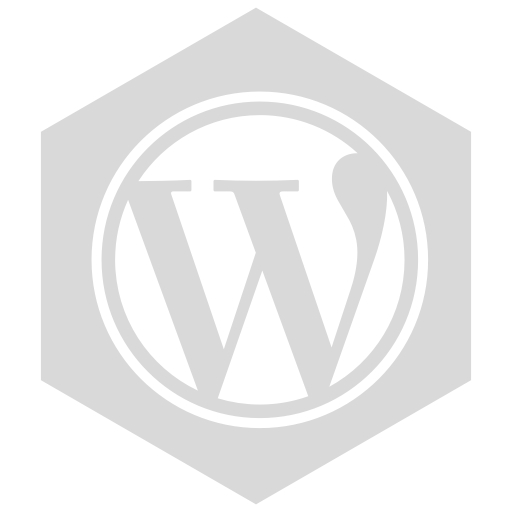
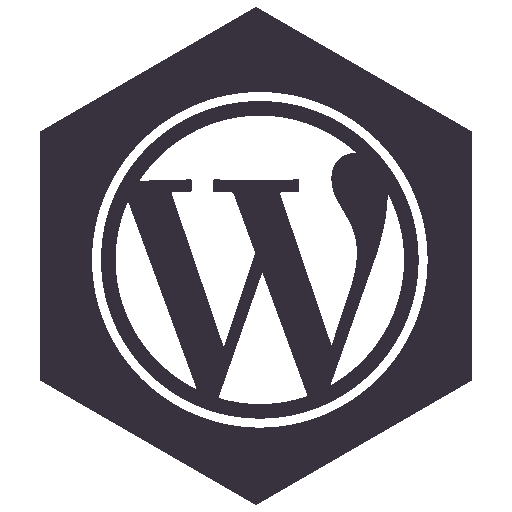
fix footer contrast issues

diff --git a/lesson11/fishhaven.html b/lesson11/fishhaven.html
@@ -19,7 +19,8 @@
 <body>
     <aside id="announcement" class="fridayAnnounce" style="display:none;">
 
-        <strong>Saturday</strong> = Fisherman Family Fun on the lake!  9:00 a.m. Saturday at the lake park landing. Bring the whole Family.
+        <strong>Saturday</strong> = Fisherman Family Fun on the lake! 9:00 a.m. Saturday at the lake park landing. Bring
+        the whole Family.
     </aside>
     <header>
         <picture class="mobilelogo">
@@ -40,9 +41,9 @@
         </div>
         <ul id="toggleNav" class="hide">
             <li><a href="index.html">Home</a></li>
-            <li><a href="preston.html" >Preston</a></li>
+            <li><a href="preston.html">Preston</a></li>
             <li><a href="sodasprings.html">Soda Springs</a></li>
-            <li><a href="fishhaven.html"class="active">Fish Haven</a></li>
+            <li><a href="fishhaven.html" class="active">Fish Haven</a></li>
             <li><a href="stormcenter.html">Storm Center</a></li>
             <li><a href="gallery.html">Gallery</a></li>
         </ul>
@@ -52,7 +53,8 @@
         <h2>Fish Haven</h2>
         <div class="herodiv">
             <picture>
-                <img class="prestonHero" src="images/fishhavenhero.jpg" loading="lazy" alt="image of city by the lake" />
+                <img class="prestonHero" src="images/fishhavenhero.jpg" loading="lazy"
+                    alt="image of city by the lake" />
             </picture>
 
             <section Class="weathersummary">
@@ -84,7 +86,7 @@
         <div class="forcast5day">
             <table id="forcast5day">
                 <caption class="caption5day">Fish Haven 5 Day Forecast</caption>
-                <tr class="weekdays" id = "weekdays">
+                <tr class="weekdays" id="weekdays">
 
                 </tr>
 
@@ -92,36 +94,66 @@
             </table>
         </div>
         <div class="articleBox">
-            <picture>
-                <source srcset="images/northernlights.jpg" media="(min-width: 1060px)" />
-                <source srcset="images/northernLights500.jpg" media="(min-width: 650px)" />
-                <source srcset="images/northernLights350.jpg" />
-                <img class="articleImg" src="images/northernlights.jpg" alt="picture of northern lights">
-            </picture>
+
 
             <article class="article">
-                <h3>Facts and fiction about the northern lights</h3>
-                <h4>Many are fascinated by the aurora borealis, but few know the science and myths related to the
-                    natural light
-                    show in the sky.</h4>
 
-                Aute tempor tempor et eu labore deserunt do Lorem cillum culpa culpa id. Consectetur ea incididunt
-                proident do incididunt sit minim fugiat. Amet proident voluptate ea ad minim. Et deserunt laborum nisi
-                eiusmod. Deserunt sunt eiusmod culpa laborum duis ipsum id Lorem amet dolore amet.
+                <figure>
+                    <img src="images/fishhavenarticleimg.jpg" alt="picture of historical monuments near bear lake, idaho">                    
+                    <figcaption><a href="https://bearlake.org/monuments/" >image credits</a></figcaption>
+                </figure>
 
-                Laborum dolor culpa id minim sint laborum Lorem culpa aliqua. Commodo minim aute officia id ut irure
-                ipsum fugiat enim qui occaecat Lorem. Deserunt mollit velit ea ut fugiat non occaecat non ex laborum.
 
-                Duis sit minim non eu nostrud veniam proident sit culpa id. Officia tempor commodo occaecat minim
-                exercitation mollit mollit. Labore dolor ex aliquip qui voluptate ea commodo nulla est aute. Dolore
-                irure et laboris cupidatat anim exercitation incididunt velit cillum aliqua. Aliquip exercitation fugiat
-                aliquip amet dolor dolore ea ea eu reprehenderit. Lorem eiusmod cupidatat ad quis qui cupidatat eu
-                laborum et ad.
+                <h3>Monuments Near Fish Haven, ID (Bear Lake Valley)</h3>
 
-                <a href="#"> Continue to full article...</a>
+
+                <h4>Bear Lake Valley Historical Highway Marker</h4>
+                Located on U.S. Highway 89 as you descend into the Bear Lake Valley from Logan Canyon.
+
+                <h4>Big Hill / MCauleyRoad on the Oregon Trail Highway Marker</h4>
+                Big Hill marks one of the most difficult descents for Oregon Trail emigrants. These highway markers on
+                U.S. Highway 30 are approximately 7 miles south of Montpelier.
+
+                <h4>Charles C. Rich Memorial</h4>
+                Paris Tabernacle in Paris, Idaho, dedicated to the team leader of a Mormon group of settlers sent by
+                early Mormon prophet Brigham Young to settle the Bear Lake Valley.
+
+                <h4>British Settlers Historical Highway Marker</h4>
+                Bloomington, Idaho, dedicated to early pioneers of British descent that settled the Bear Lake Valley.
+
+                <figure>
+                    <img src="images/gutzonborglumimg.jpg" alt="picture of historical monuments near bear lake, idaho">
+                    <figcaption><a href="https://www.flickr.com/photos/jstephenconn/4060876565" >image credits</a></figcaption>
+                </figure>
+
+
+
+                <h4>Gutson Borglum Monument</h4>
+                St. Charles, Idaho, honors the birthplace of the sculptor of Mt. Rushmore.
+
+
+                <h4>Peg Leg Smith Highway Marker</h4>
+                The story about Peg Leg Smith could be taken out of the folk tales of the west. Rumored to cut off his
+                own leg after being wounded in a battle with Indians, Smith started a trading post that also was storied
+                to include selling back stolen livestock to Oregon Trail travelers. Married to Chief Walkara’s daughter
+                Mountain Fawn, Smith supposedly buried her on the east side of Bear Lake overlooking the beautiful view
+                and guarding a small treasure that was buried with her. This marker is located approximately 6 miles
+                south of Montpelier on U.S. Highway 30.
+
+                <h4>Rendezvous Rest Stop</h4>
+                Marks the site of mountain men rendezvous held in the Bear Lake Valley during the summers of 1826 and
+                1827. Famous mountain men such as Jim Bridger, Jedediah Smith and William Ashley attended this well
+                known rendezvous.
+
+                <h4>Randolph War Memorial</h4>
+                Randolph, Utah, is dedicated to veterans of foreign wars.
+                <br>
+                <h4>Visit<a href="http://idaho.untraveledroad.com/BearLakeHList.htm"> Untraveled Road </a> for more
+                    details.</h4>
 
 
             </article>
+
         </div>
 
 

diff --git a/lesson11/preston.html b/lesson11/preston.html
@@ -92,12 +92,10 @@
             </table>
         </div>
         <div class="articleBox">
-            <picture>
-                <source srcset="images/northernlights.jpg" media="(min-width: 1060px)" />
-                <source srcset="images/northernLights500.jpg" media="(min-width: 650px)" />
-                <source srcset="images/northernLights350.jpg" />
-                <img class="articleImg" src="images/northernlights.jpg" alt="picture of northern lights">
-            </picture>
+            <figure>
+
+                <img class="articleImg" src="images/northernlights.jpg" alt="picture of northern lights" loading="lazy"><figCaption><a href="https://www.pexels.com/photo/colorful-polar-lights-over-snowy-mountain-1559817/">image credit</a></figCaption>
+            </figure>
 
             <article class="article">
                 <h3>Facts and fiction about the northern lights</h3>
@@ -105,20 +103,20 @@
                     natural light
                     show in the sky.</h4>
 
-                Aute tempor tempor et eu labore deserunt do Lorem cillum culpa culpa id. Consectetur ea incididunt
-                proident do incididunt sit minim fugiat. Amet proident voluptate ea ad minim. Et deserunt laborum nisi
-                eiusmod. Deserunt sunt eiusmod culpa laborum duis ipsum id Lorem amet dolore amet.
+                    When you get the aurora borealis explained by advanced physicists who specialize in the field of magnetohydrodynamics, it can be hard to see the link to the lights that dance spontaneously and like crazy above your head.<br><br>
 
-                Laborum dolor culpa id minim sint laborum Lorem culpa aliqua. Commodo minim aute officia id ut irure
-                ipsum fugiat enim qui occaecat Lorem. Deserunt mollit velit ea ut fugiat non occaecat non ex laborum.
+                    But the phenomenon can also be explained in a tangible way: We have the sun to thank for everything, also the auroras, and during large solar explosions and flares, huge quantities of particles are thrown out from the sun and into deep space.<br><br>
+                    
+                    <h4>The maths of the northern lights</h4>
+                    Here’s where it gets really interesting: When the particles meet the Earth’s magnetic shield, they are led towards an oval around the magnetic North Pole where they interact with the upper parts of the atmosphere, the layers of ozone, oxygen, and other stuff that protect the earth. The energy which is then released is sent to us as northern lights.<br><br>
+                    
+                    It adds to the magic to know that this performance happens approximately 62 miles above our heads. Its immense power is the reason why we can see it so clearly, as it’s helped by a myriad of atoms and molecules.<br><br>
+                    
+                    But never take the northern lights for granted. It’s as much a natural phenomenon as the weather. Its appearance and intensity are controlled by the sun’s activity and its location depends on the earth’s magnetic field.<br><br>
+                    
+                    The northern light appears in a belt, or an oval, which is situated above the Earth in a regular position in relation to the sun. The lights will usually be visible over mainland Northern Norway during the night and over Svalbard during the daytime. When solar activity increases, the northern lights can also be seen further south in Norway.<br><br>
 
-                Duis sit minim non eu nostrud veniam proident sit culpa id. Officia tempor commodo occaecat minim
-                exercitation mollit mollit. Labore dolor ex aliquip qui voluptate ea commodo nulla est aute. Dolore
-                irure et laboris cupidatat anim exercitation incididunt velit cillum aliqua. Aliquip exercitation fugiat
-                aliquip amet dolor dolore ea ea eu reprehenderit. Lorem eiusmod cupidatat ad quis qui cupidatat eu
-                laborum et ad.
-
-                <a href="#"> Continue to full article...</a>
+                <a href="https://www.visitnorway.com/things-to-do/nature-attractions/northern-lights/facts-about-the-northern-lights/"> Continue to full article...</a>
 
 
             </article>

diff --git a/lesson11/index.html b/lesson11/index.html
@@ -90,7 +90,7 @@
     </main>
 
     <div class="contact">
-        <img class="mapImage" src="../lesson6/images/prestonNorway.jpg" alt="map of preston norway" />
+        <img class="mapImage" src="images/prestonNorway.jpg" alt="map of preston norway" />
         <section class="stormAddress">
 
             <div class="stormContactPara1">
@@ -106,13 +106,13 @@
 
             <div class="stormSocial">
                 <a href="https://www.facebook.com" target="blank">
-                    <img class="facebook" src="../lesson6/images/facebook.png" alt="Facebook icon" />
+                    <img class="facebook" src="images/facebook.png" alt="Facebook icon" />
                 </a>
                 <a href="https://www.twitter.com" target="blank">
-                    <img class="twitter" src="../lesson6/images/twitter.png" alt="twitter icon" /></a>
+                    <img class="twitter" src="images/twitter.png" alt="twitter icon" /></a>
 
                 <a href="https://www.wordpress.com" target="blank">
-                    <img class="wordpress" src="../lesson6/images/wordpress.png" alt="wordpress icon" /></a>
+                    <img class="wordpress" src="images/wordpress.png" alt="wordpress icon" /></a>
             </div>
         </section>
     </div>

diff --git a/lesson11/css/small.css b/lesson11/css/small.css
@@ -164,6 +164,9 @@ body {
     box-shadow: 0 0 30px #777;
   }
 
+  .article figure {
+    float: right;
+  }
 
   .articleImg {
     max-width: 50%;
@@ -179,7 +182,7 @@ body {
   
   article a {
     color: #37323e;
-    font-size: 0.9rem;
+    /* font-size: 0.9rem; */
   }
   .forcast5day {
     display: none;
@@ -366,8 +369,8 @@ body {
   }
   
   .contact {
-    background-color: #828089;
-    color: #ffffff;
+    background-color: #ffffff;
+    color: #37323e;
     font-size: large;
     text-align: center;
     max-width: 960px;
@@ -379,7 +382,7 @@ body {
     display: block;
   }
   .contact a {
-    color: white;
+    color: #37323e;
     font-weight: bold;
   }
   
